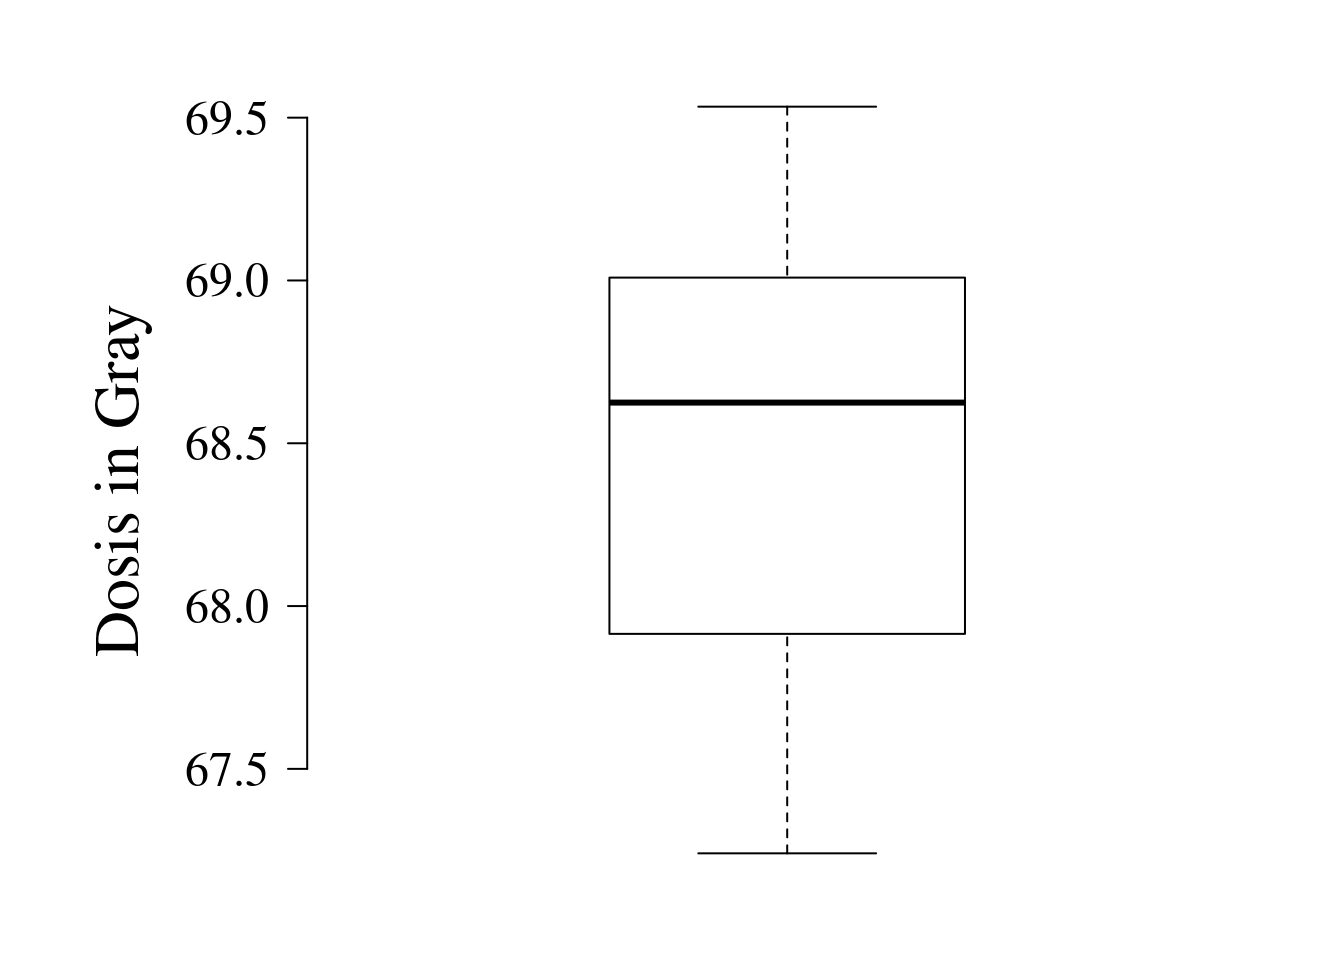
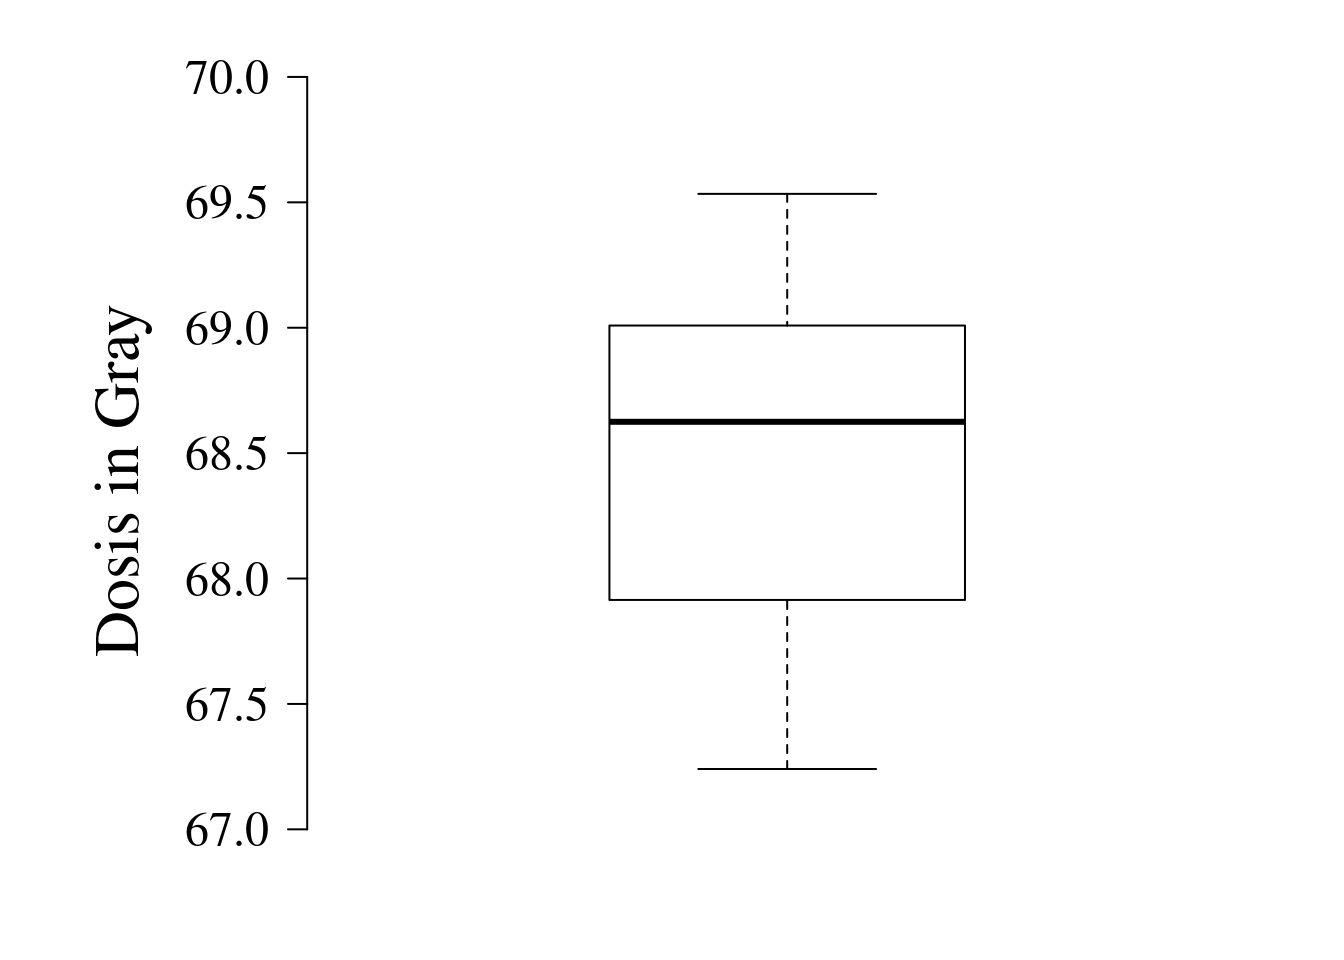
Build site.

diff --git a/docs/Rechnungen.html b/docs/Rechnungen.html
@@ -505,16 +505,16 @@ This reproducible <a href="http://rmarkdown.rstudio.com">R Markdown</a> analysis
 <div class="panel panel-default">
 <div class="panel-heading">
 <p class="panel-title">
-<a data-toggle="collapse" data-parent="#workflowr-checks" href="#strongRepositoryversionstrongahrefhttpsgithubcomdssrttnTesttreee83da519b23084d6e804af3fffc5d1e2e45fc82btargetblanke83da51a"> <span class="glyphicon glyphicon-ok text-success" aria-hidden="true"></span> <strong>Repository version:</strong> <a href="https://github.com/dssrttn/Test/tree/e83da519b23084d6e804af3fffc5d1e2e45fc82b" target="_blank">e83da51</a> </a>
+<a data-toggle="collapse" data-parent="#workflowr-checks" href="#strongRepositoryversionstrongahrefhttpsgithubcomdssrttnTesttree0fd490697c7dd6bfc4a2c17e0f3260344f41df28targetblank0fd4906a"> <span class="glyphicon glyphicon-ok text-success" aria-hidden="true"></span> <strong>Repository version:</strong> <a href="https://github.com/dssrttn/Test/tree/0fd490697c7dd6bfc4a2c17e0f3260344f41df28" target="_blank">0fd4906</a> </a>
 </p>
 </div>
[2 lines of base64/hex data omitted]
 <div class="panel-body">
 <p>
 Great! You are using Git for version control. Tracking code development and connecting the code version to the results is critical for reproducibility.
 </p>
 <p>
-The results in this page were generated with repository version <a href="https://github.com/dssrttn/Test/tree/e83da519b23084d6e804af3fffc5d1e2e45fc82b" target="_blank">e83da51</a>. See the <em>Past versions</em> tab to see a history of the changes made to the R Markdown and HTML files.
+The results in this page were generated with repository version <a href="https://github.com/dssrttn/Test/tree/0fd490697c7dd6bfc4a2c17e0f3260344f41df28" target="_blank">0fd4906</a>. See the <em>Past versions</em> tab to see a history of the changes made to the R Markdown and HTML files.
 </p>
 <p>
 Note that you need to be careful to ensure that all relevant files for the analysis have been committed to Git prior to generating the results (you can use <code>wflow_publish</code> or <code>wflow_git_commit</code>). workflowr only checks the R Markdown file, but you know if there are other scripts or data files that it depends on. Below is the status of the Git repository when the results were generated:
@@ -576,6 +576,40 @@ Message
 </tr>
 </thead>
 <tbody>
+<tr>
+<td>
+Rmd
+</td>
+<td>
+<a href="https://github.com/dssrttn/Test/blob/0fd490697c7dd6bfc4a2c17e0f3260344f41df28/analysis/Rechnungen.Rmd" target="_blank">0fd4906</a>
+</td>
+<td>
+Mein Vorname
+</td>
+<td>
+2020-07-02
+</td>
+<td>
+rectum und bladder, ylim=c(min(0.995<em>min), max(1.005</em>max))
+</td>
+</tr>
+<tr>
+<td>
+html
+</td>
+<td>
+<a href="https://rawcdn.githack.com/dssrttn/Test/24d46777a56790637245e9de8564a1ea75d91f45/docs/Rechnungen.html" target="_blank">24d4677</a>
+</td>
+<td>
+Mein Vorname
+</td>
+<td>
+2020-07-02
+</td>
+<td>
+Build site.
+</td>
+</tr>
 <tr>
 <td>
 Rmd
@@ -1309,6 +1343,43 @@ Numbers
 <div id="rectum-rv-cum-ptv-d_5-constraint---boxplot" class="section level4">
 <h4>Rectum RV cum PTV D_5 constraint - boxplot</h4>
 <p><img src="figure/Rechnungen.Rmd/unnamed-chunk-5-1.png" width="672" style="display: block; margin: auto;" /></p>
+<p>
+<button type="button" class="btn btn-default btn-xs btn-workflowr btn-workflowr-fig" data-toggle="collapse" data-target="#fig-unnamed-chunk-5-1">
+Past versions of unnamed-chunk-5-1.png
+</button>
+</p>
+<div id="fig-unnamed-chunk-5-1" class="collapse">
+<div class="table-responsive">
+<table class="table table-condensed table-hover">
+<thead>
+<tr>
+<th>
+Version
+</th>
+<th>
+Author
+</th>
+<th>
+Date
+</th>
+</tr>
+</thead>
+<tbody>
+<tr>
+<td>
+<a href="https://github.com/dssrttn/Test/blob/24d46777a56790637245e9de8564a1ea75d91f45/docs/figure/Rechnungen.Rmd/unnamed-chunk-5-1.png" target="_blank">24d4677</a>
+</td>
+<td>
+Mein Vorname
+</td>
+<td>
+2020-07-02
+</td>
+</tr>
+</tbody>
+</table>
+</div>
+</div>
 <br>
 <p>
 <button type="button" class="btn btn-default btn-workflowr btn-workflowr-sessioninfo" data-toggle="collapse" data-target="#workflowr-sessioninfo" style="display: block;">
